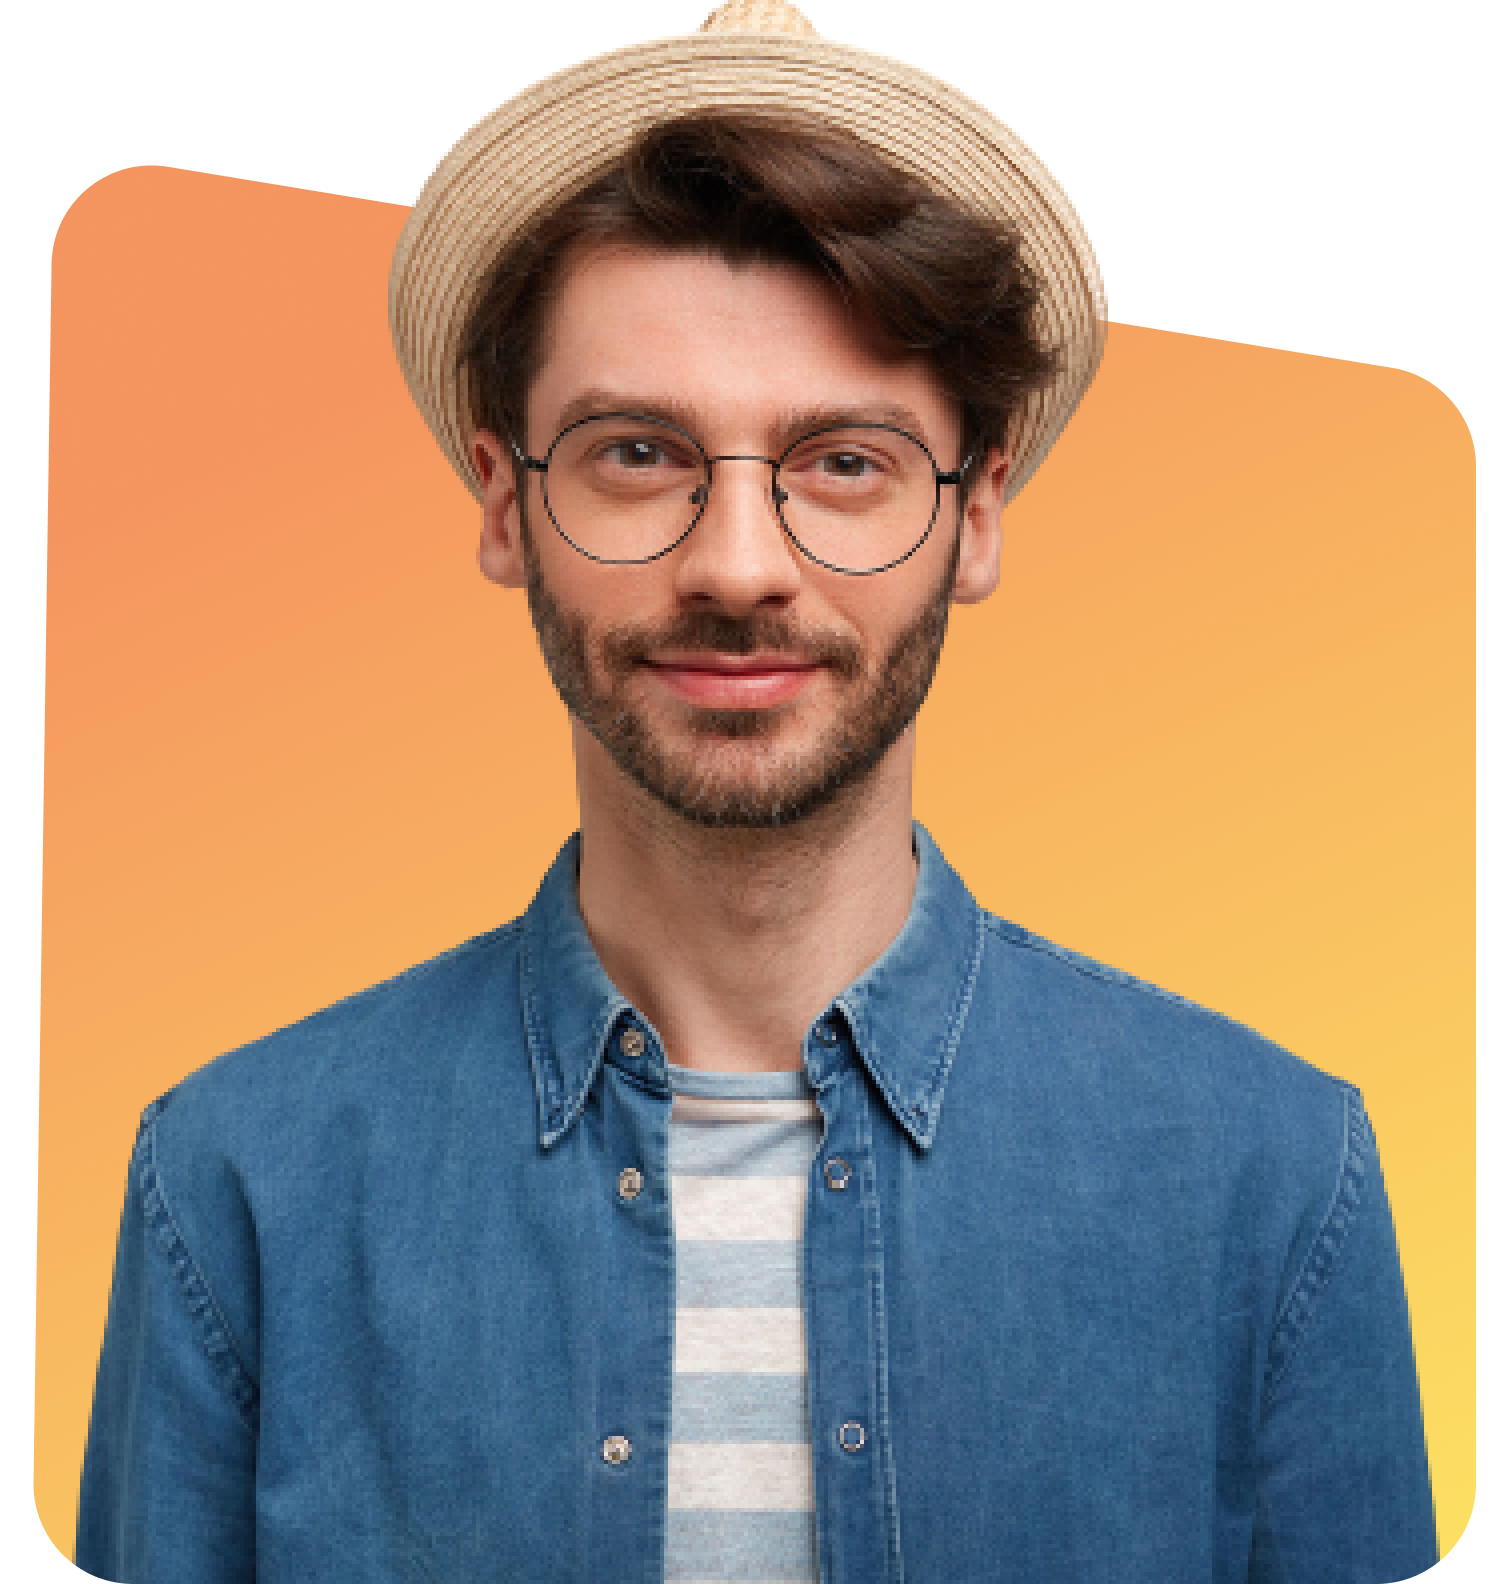
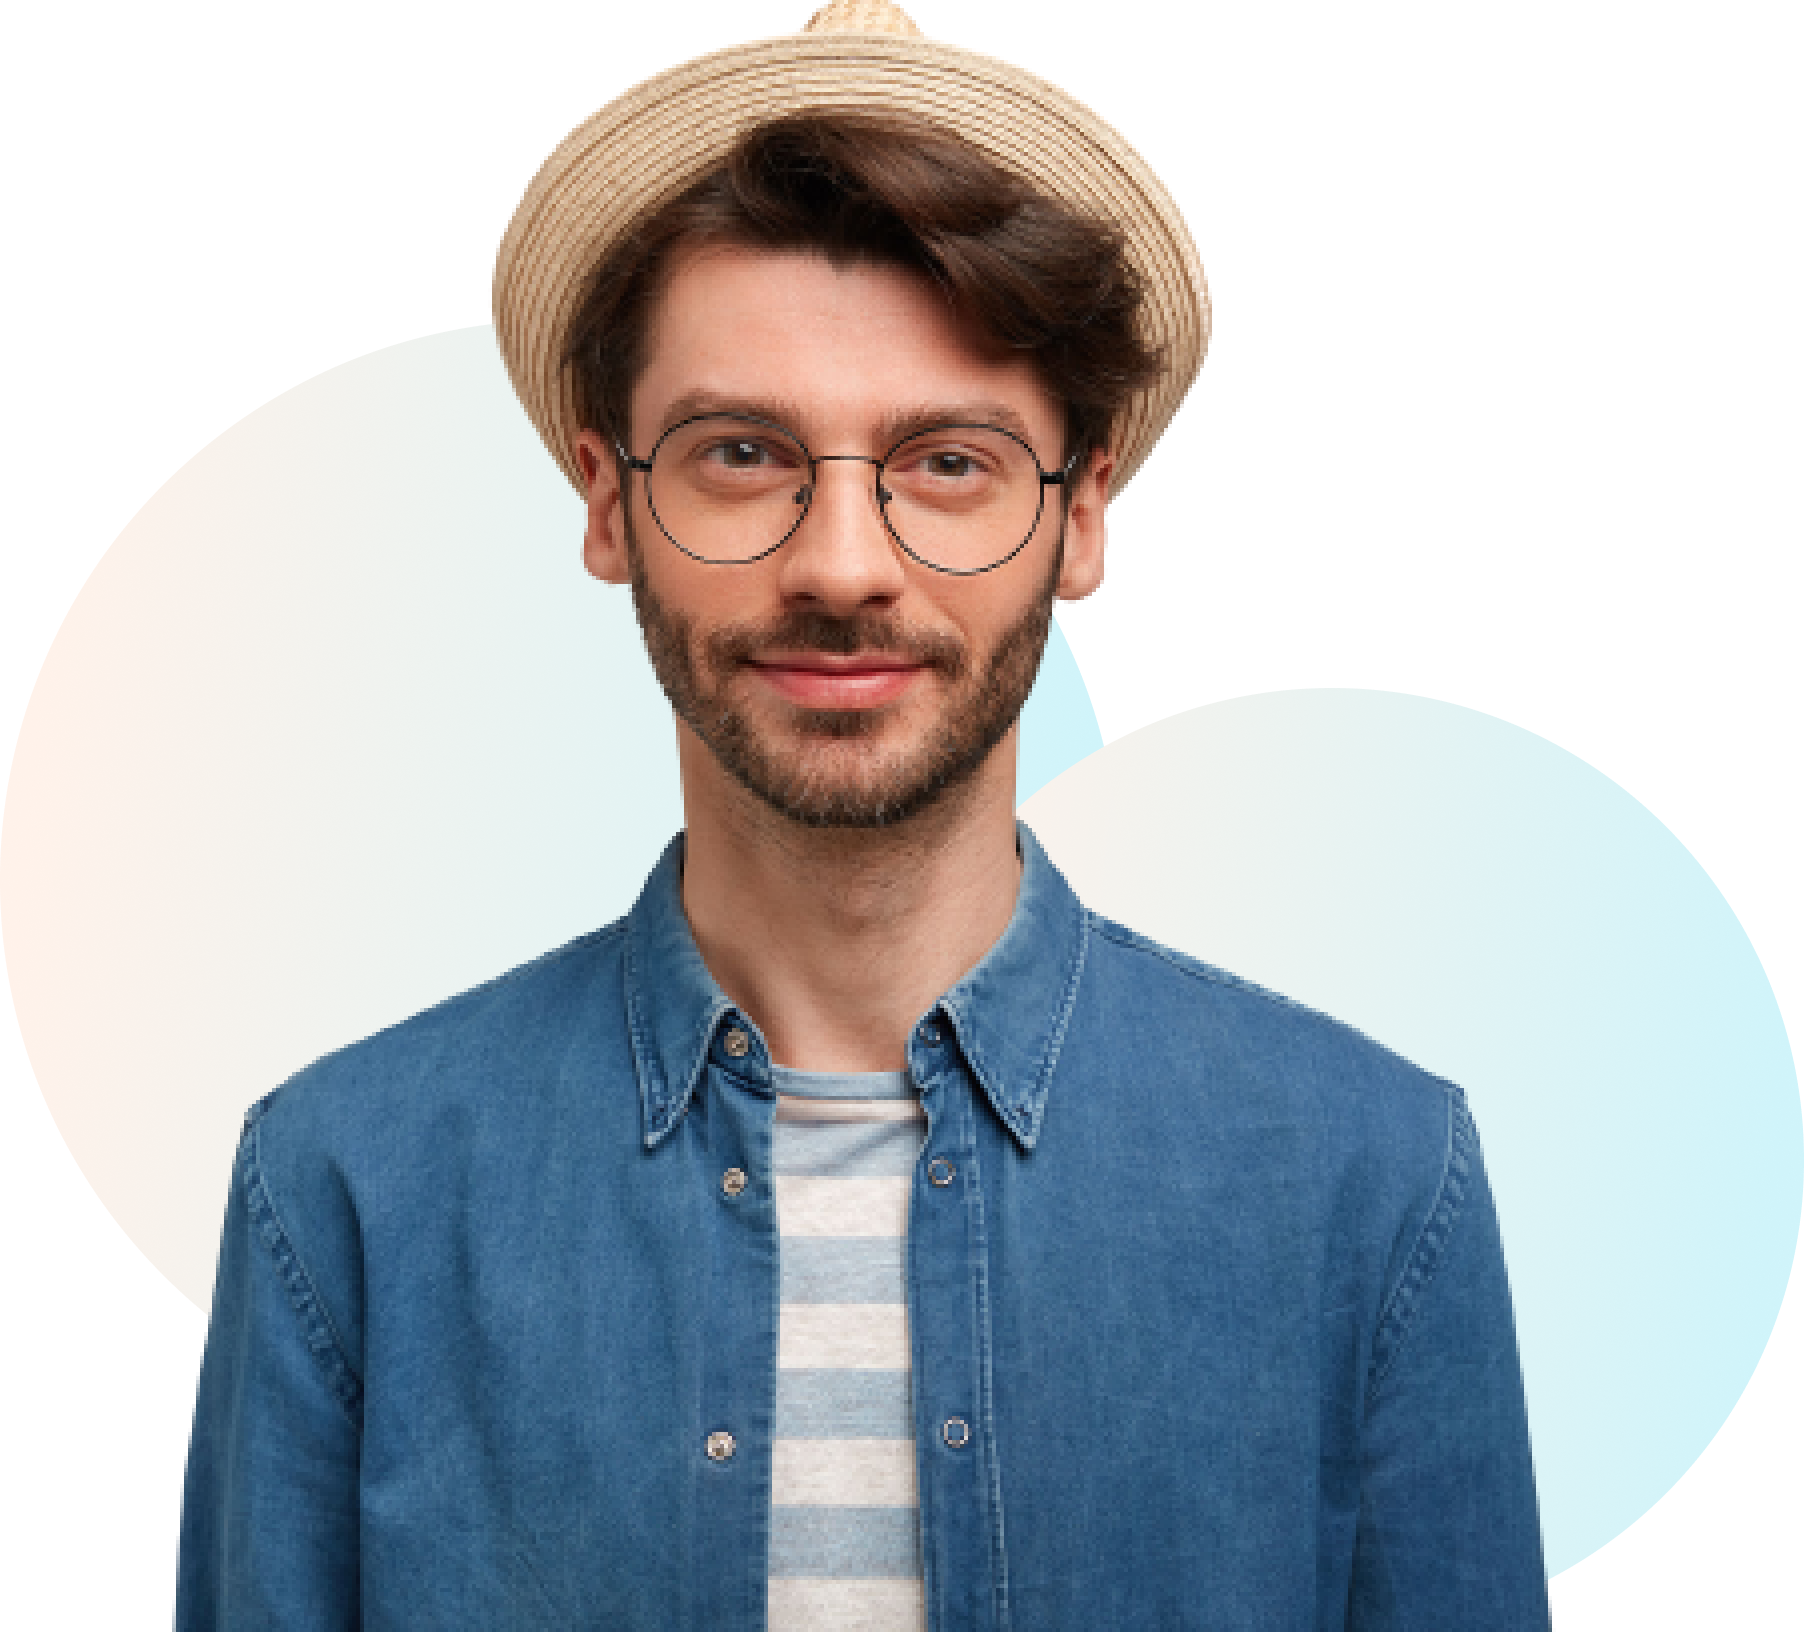
section four

diff --git a/style.css b/style.css
@@ -4,7 +4,7 @@
 /*Some Common and Default Styles Here*/
 body{
     font-family: 'Poppins', sans-serif;
-    margin: 0% 8%;
+    margin: 0% 3%;
 }
 
 h1{
@@ -47,10 +47,6 @@ font-size: 16px;
     padding: 10px 25px;
     border-radius: 5px;
 }
-
-
-
-/*Banner Section Styles Here*/
 .display-flex{
     display: flex;
 }
@@ -66,9 +62,14 @@ font-size: 16px;
 .width-65{
     width: 65%;
 }
+
+
+/*Banner Section Styles Here*/
+#banner-section{
+    padding: 0% 5%;
+}
 .banner-item-1{
 padding-top: 120px;
-padding-right: ;
 }
 .banner-item-1 p{
 padding-right: 30%;
@@ -81,6 +82,7 @@ margin-top: -30px;
     line-height: 80px;
     font-weight: 400;
     padding-left:20px;
+    text-align: left;
     border-left: 5px solid #ff5959;
 }
 .banner-section img{
@@ -90,7 +92,7 @@ margin-top: -30px;
 
 /*Section two css here*/
 #section-two{
-    padding: 70px 0px;
+    padding: 70px 5%;
     background-image: url();
     
 }
@@ -123,15 +125,24 @@ font-size: 16px;
 /*Section three start here*/
 #section-three{
     margin:50px 0px;
+    background-image: url(img/shape-1.png);
+    background-repeat: no-repeat;
+    background-position: left;
 }
 .section-three img{
-    width: 80%;
+    width: 72%;
+    padding-left: 15%;
 }
 
 /*Section Four Start here*/
 #section-four{
-    margin:50px 0px;
+    margin-top:50px;
+    margin-left: 5%;
+    background-image: url(img/Ellipse\ 34.png);
+    background-repeat: no-repeat;
+    background-position: right bottom;
 }
 .section-four img{
-    width: 80%;
+    width: 78%;
+    padding-bottom: 82px;
 }
